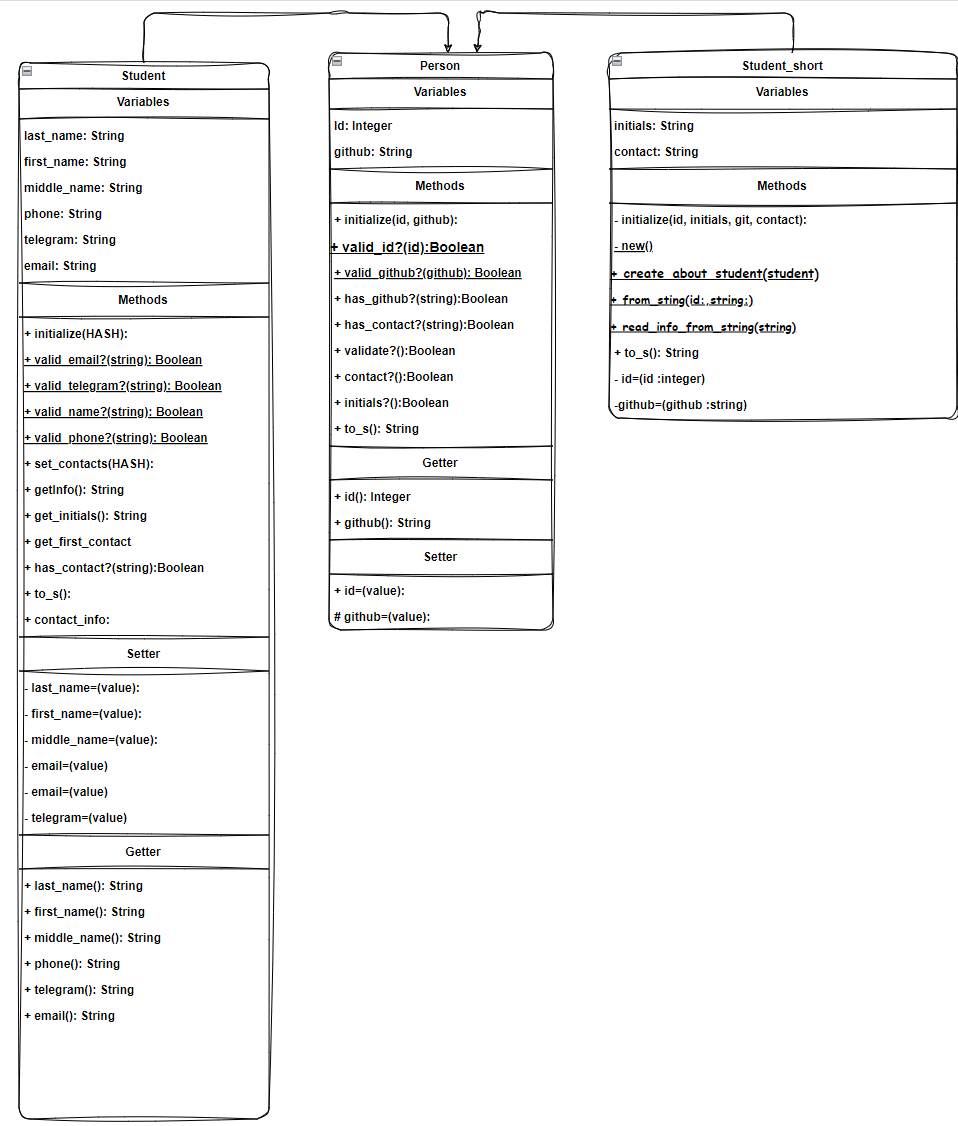
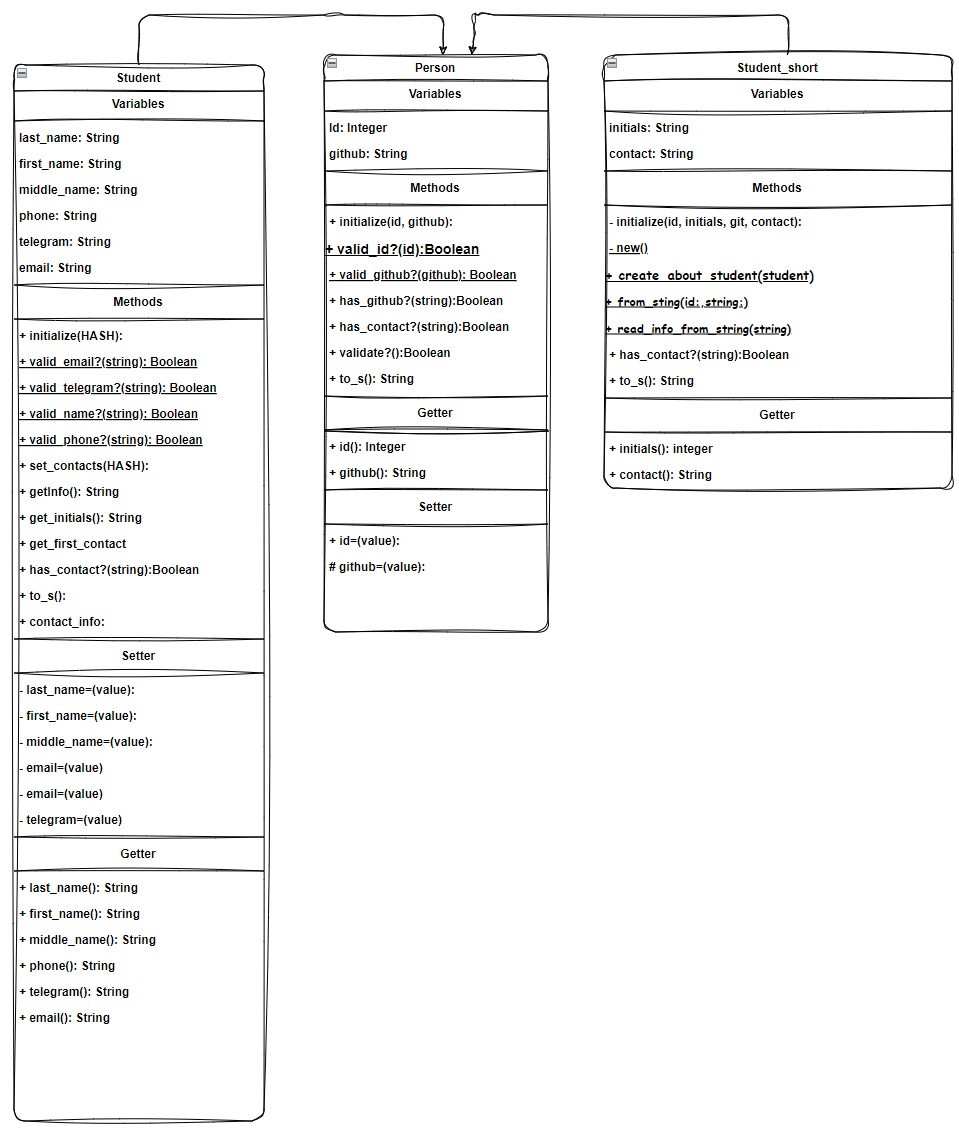
|Lab№2|Update class Student, Person, Student_short, diagramm|

diff --git a/Student_Records/person.rb b/Student_Records/person.rb
@@ -23,30 +23,23 @@ class Person
     @id = id
   end
 
-  # Сеттер для GitHub
-  def github=(github)
-    raise ArgumentError, "Неправильный GitHub URL" unless self.class.valid_github?(github)
-  
-    @github = github
-  end
-
-  def contact
-    raise NotImplementedError, "Метод должен быть реализован в дочернем классе"
-  end
-
-  def initials
-    raise NotImplementedError, "Метод должен быть реализован в дочернем классе"
-  end
-
-  def has_git?
-    !git.nil?
+  def validate?
+    has_contact? && has_github?
   end
 
   def has_contact?
-    raise NotImplementedError, "Метод должен быть реализован в дочернем классе"
+    raise NotImplementedError, "Метод has_contact? должен быть реализован в классе наследнике"
   end
-  
-  def validate
-    has_git? && has_contact?
+
+  def has_github?
+    !github.nil?
+  end
+
+  protected
+
+  def github=(github)
+    raise ArgumentError, "  Неправильный git" unless self.class.valid_github?(git)
+
+    @git = git
   end
 end

diff --git a/Student_Records/student_short.rb b/Student_Records/student_short.rb
@@ -21,7 +21,11 @@ class Student_short < Person
   def to_s
     "\nID: #{@id} \nInitials: #{@initials} \nGit: #{@git} \nContact: #{@contact}"
   end
-  private :id=, :git=
+ 
+  def has_contact?
+    !@contact.nil?
+  end
+
   private_class_method :new
 
     def initialize(id: nil, initials:nil , git: nil, contact: nil)
